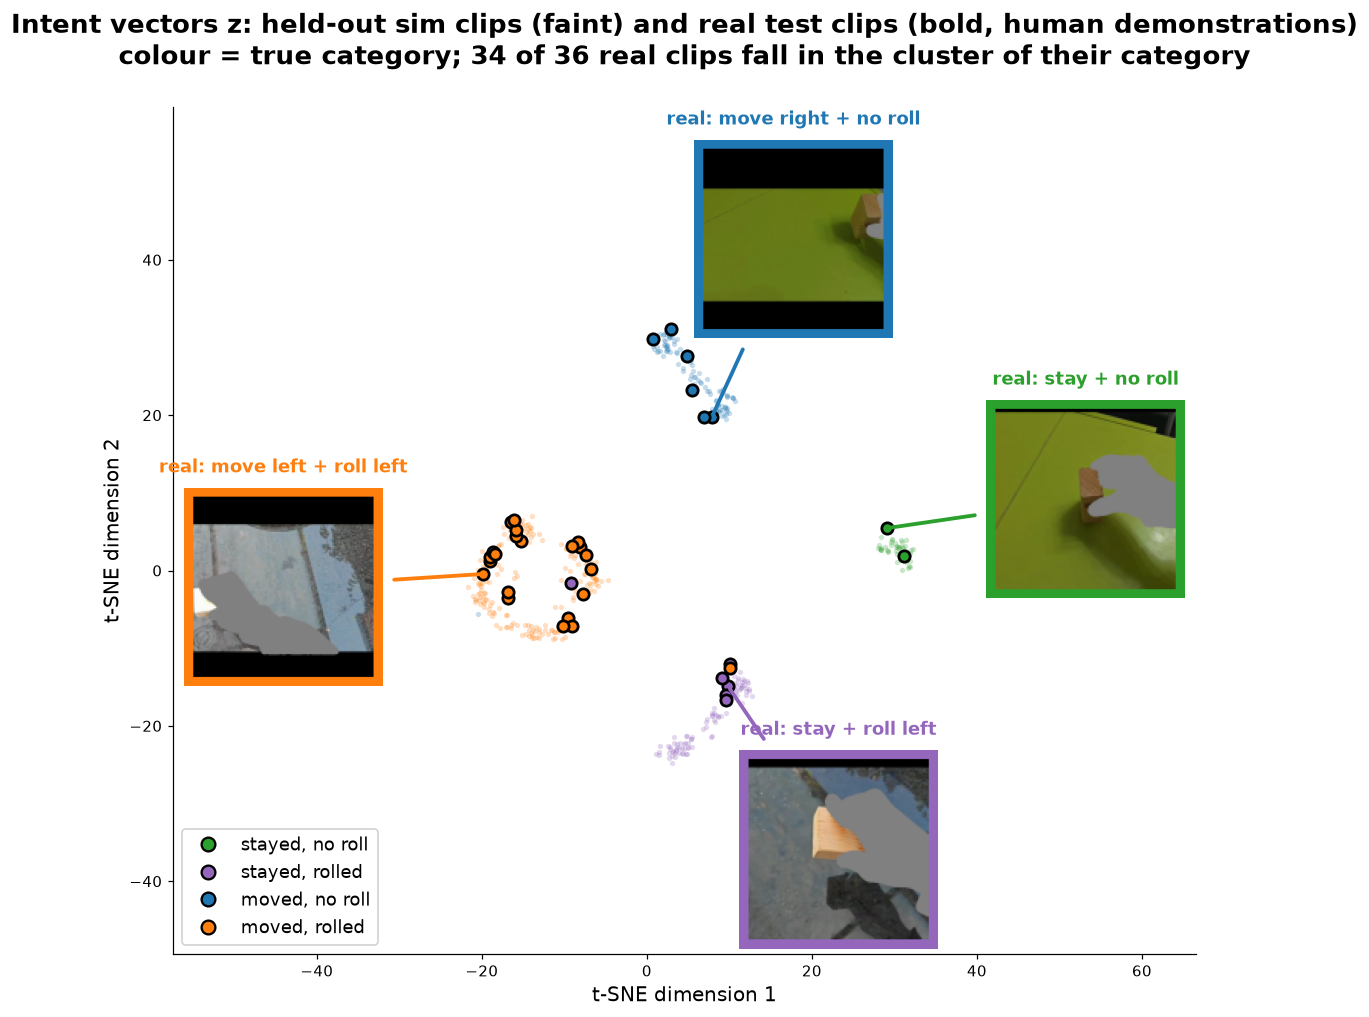
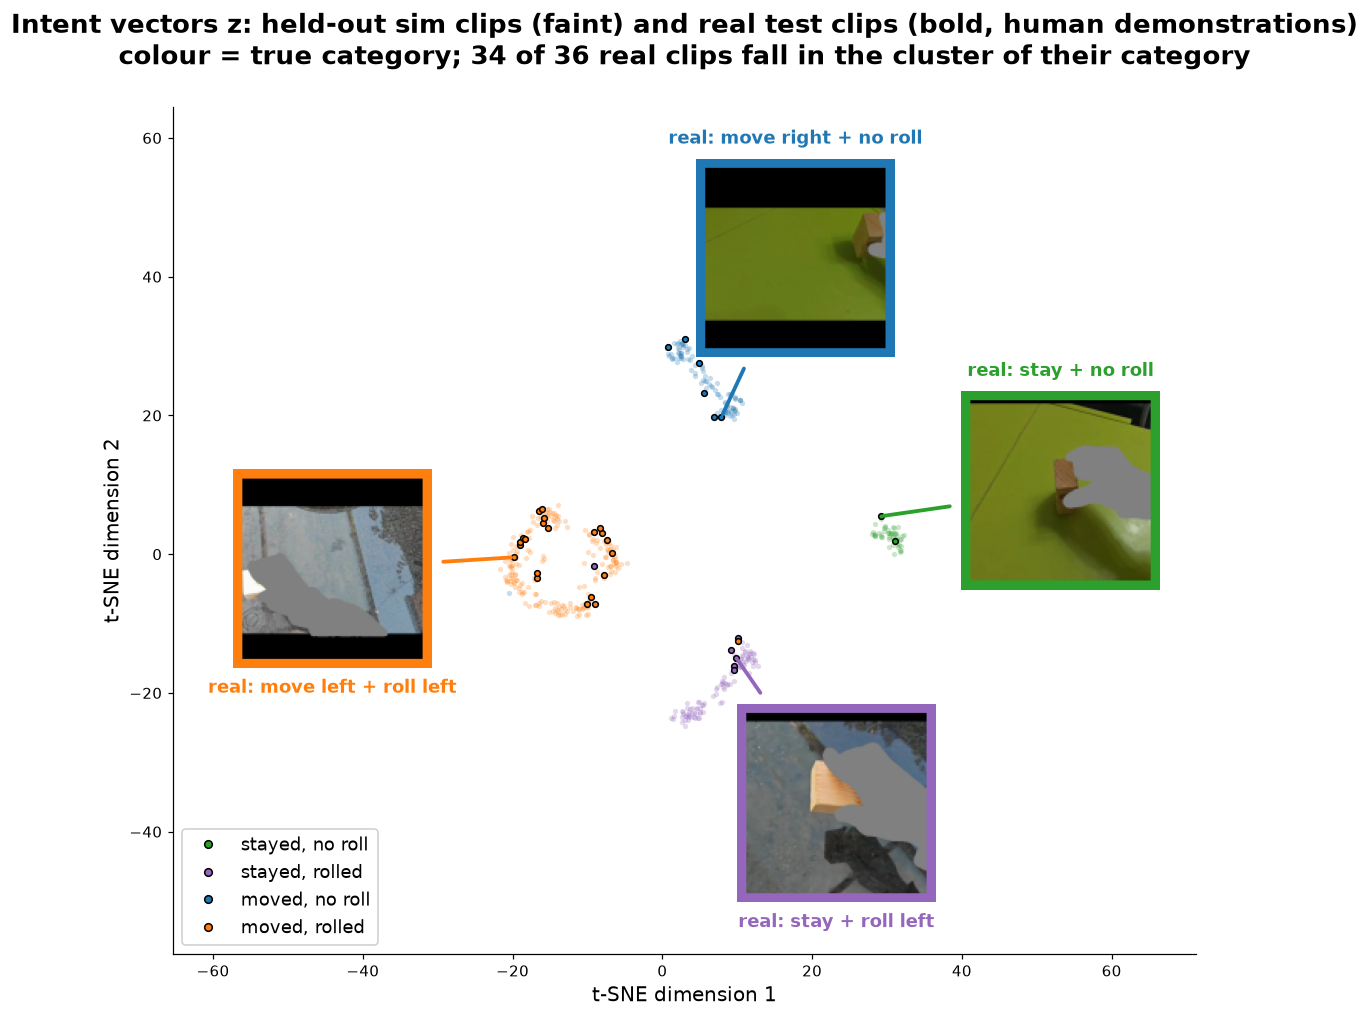
imgs

diff --git a/README.md b/README.md
@@ -67,10 +67,11 @@
 
 ### Vector comparison
 
-![Real test clip vs sim clips: 36° to the same task, 81° to a different task](docs/media/angles_success.jpg)
+![Angle between intent vectors: real test clip 36° from a sim clip of the same task, 81° from a sim clip of a different task](docs/media/angles_success.png)
 
-- **Same task:** a real clip lies 36° from a sim clip of the same task.
-- **Different task:** it lies 81° from a sim clip of a different task.
+- **Same task:** 36° between the real clip and a sim clip of the same task.
+- **Different task:** 81° to a sim clip of a different task.
+- **Drawing:** the angles are the true angles between the 64-D vectors. A 2D PCA would distort them (36° would shrink to a few degrees).
 
 ## Results summary
 
@@ -99,7 +100,7 @@ Real test set, per question (outcome correct, %): did it move 90 · which way 71
 
 ### 2. Roll direction on real video is at chance
 
-![Real "roll left" lies 32° from sim "roll right" and 90° from sim "roll left"](docs/media/angles_failure.jpg)
+![Angle between intent vectors: real "roll left" 32° from sim "roll right", 90° from sim "roll left"](docs/media/angles_failure.png)
 
 - **Example:** real "roll left" lies closer to sim "roll right" (32°) than to sim "roll left" (90°).
 - **Real test set:** whether the block rolled is 100% correct; which way it rolled is 52%, chance level.
